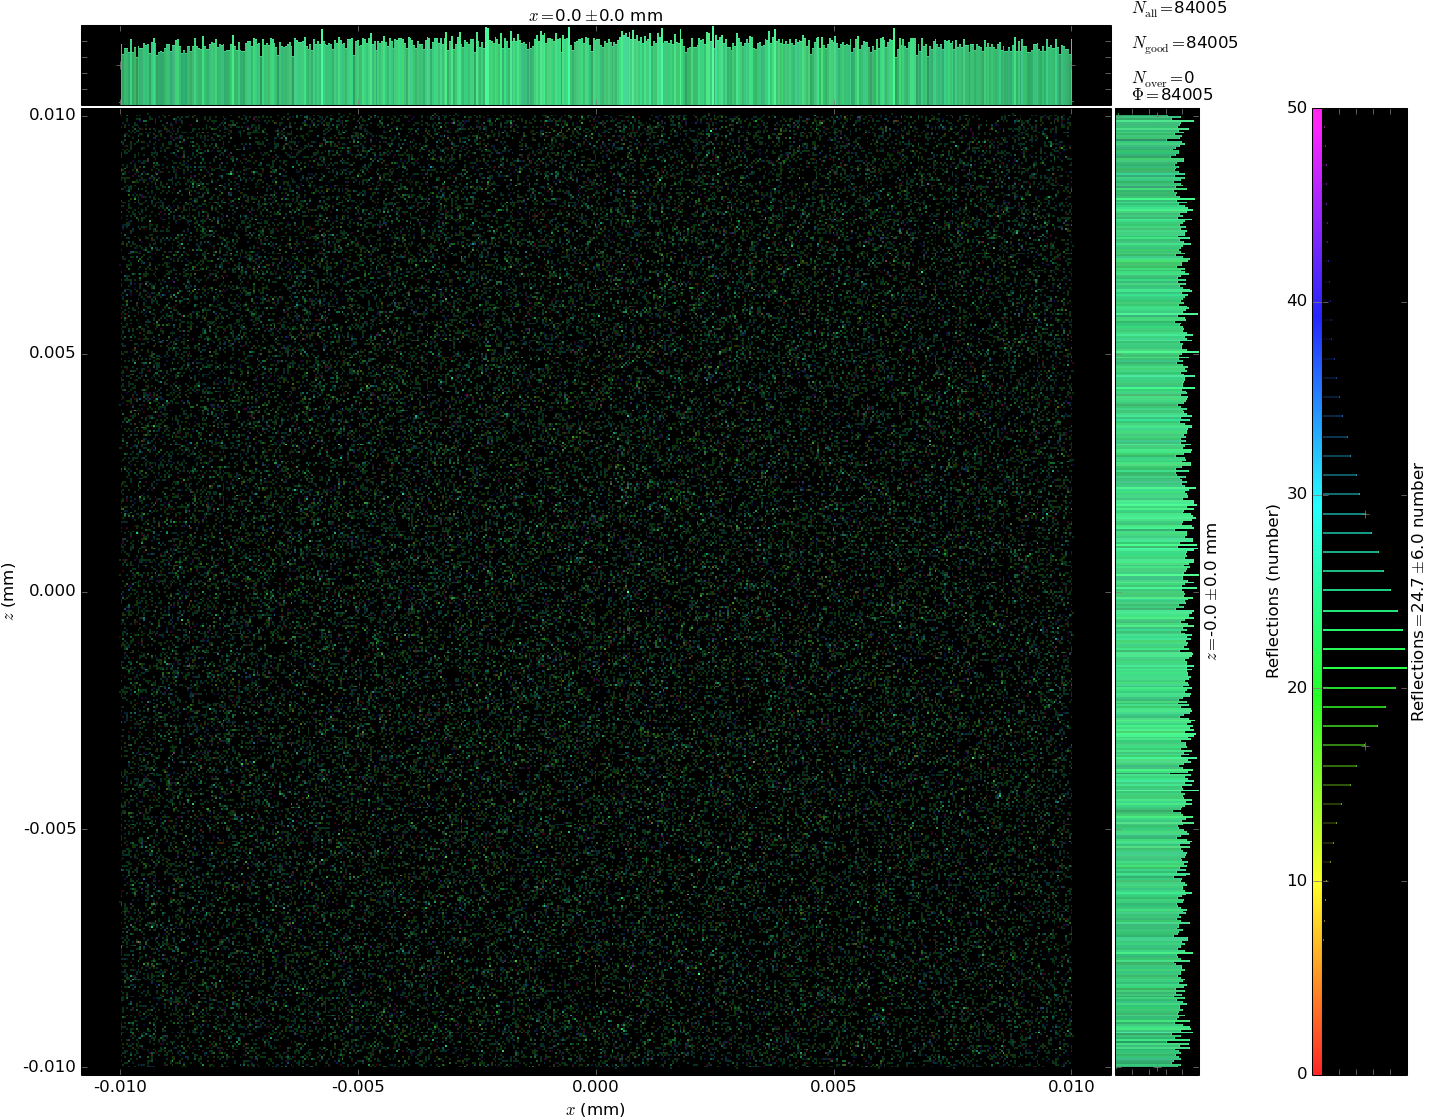
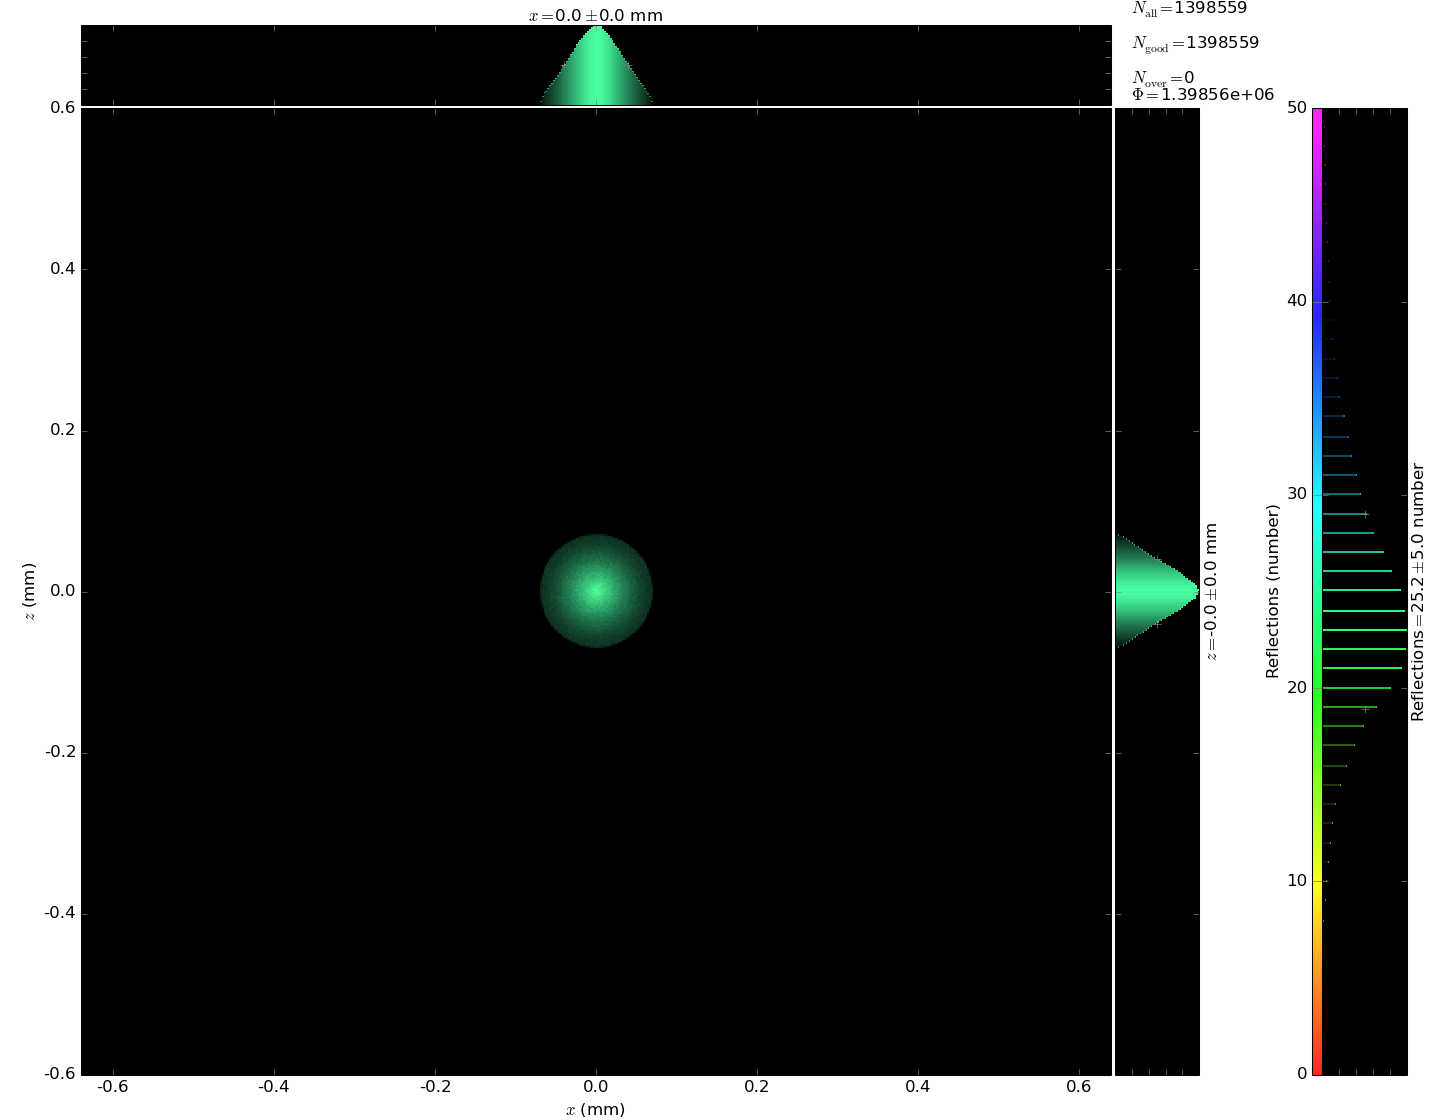
Another pinhole mechanism

diff --git a/main.py b/main.py
@@ -101,20 +101,19 @@ if __name__ == '__main__':
     ub.move_beam_to(beam, 155)
 
     # Positions to create the wires at
-    positions = [155]
-    shifts = [-0.5 + it * 0.01 for it in range(101)]
+    positions = [154 + 0.05 * it for it in range(20)]
 
-    for shift in shifts:
+    for position in positions:
         print "Creating wires at focal spot, shifted by", shift
 
-        # Cut the wires out
-        ceam = uc.make_wires(beam, shift)
+        # Cut the circle out
+        ceam = uc.cut_circle(beam, 0.04)
 
         # Save as png, only at the detector
         cp = up.BeamPlotter(ceam)
         # cp.set_save_name('png/triangle_at_focal_155.png'.format(position))
         # cp.set_limits([-0.5, 0.5])
         # cp.show(155)
-        cp.set_save_name('gif/tmp/wires_shifted_{}__detector_at_170.png'.format(shift))
+        cp.set_save_name('gif/tmp/pinhole_at_{}.png'.format(position))
         cp.set_limits([-3, 3])
         cp.show(170)

diff --git a/utils/cutter.py b/utils/cutter.py
@@ -49,3 +49,17 @@ def cut_left_half(beam):
     ceam = ub.copy_by_index(beam, ids)
 
     return ceam
+
+def cut_circle(beam, radius):
+    """ matplotlib 1.5 required (get on pypi)"""
+    N_ = 100
+    s = [radius * np.sin(2*np.pi*th/N_) for th in range(N_)]
+    c = [radius * np.cos(2*np.pi*th/N_) for th in range(N_)]
+
+    circ = mp.Path(zip(s,c))
+
+    ids = circ.contains_points(zip(beam.x, beam.z))
+    
+    ceam = ub.copy_by_index(beam, ids)
+
+    return ceam
